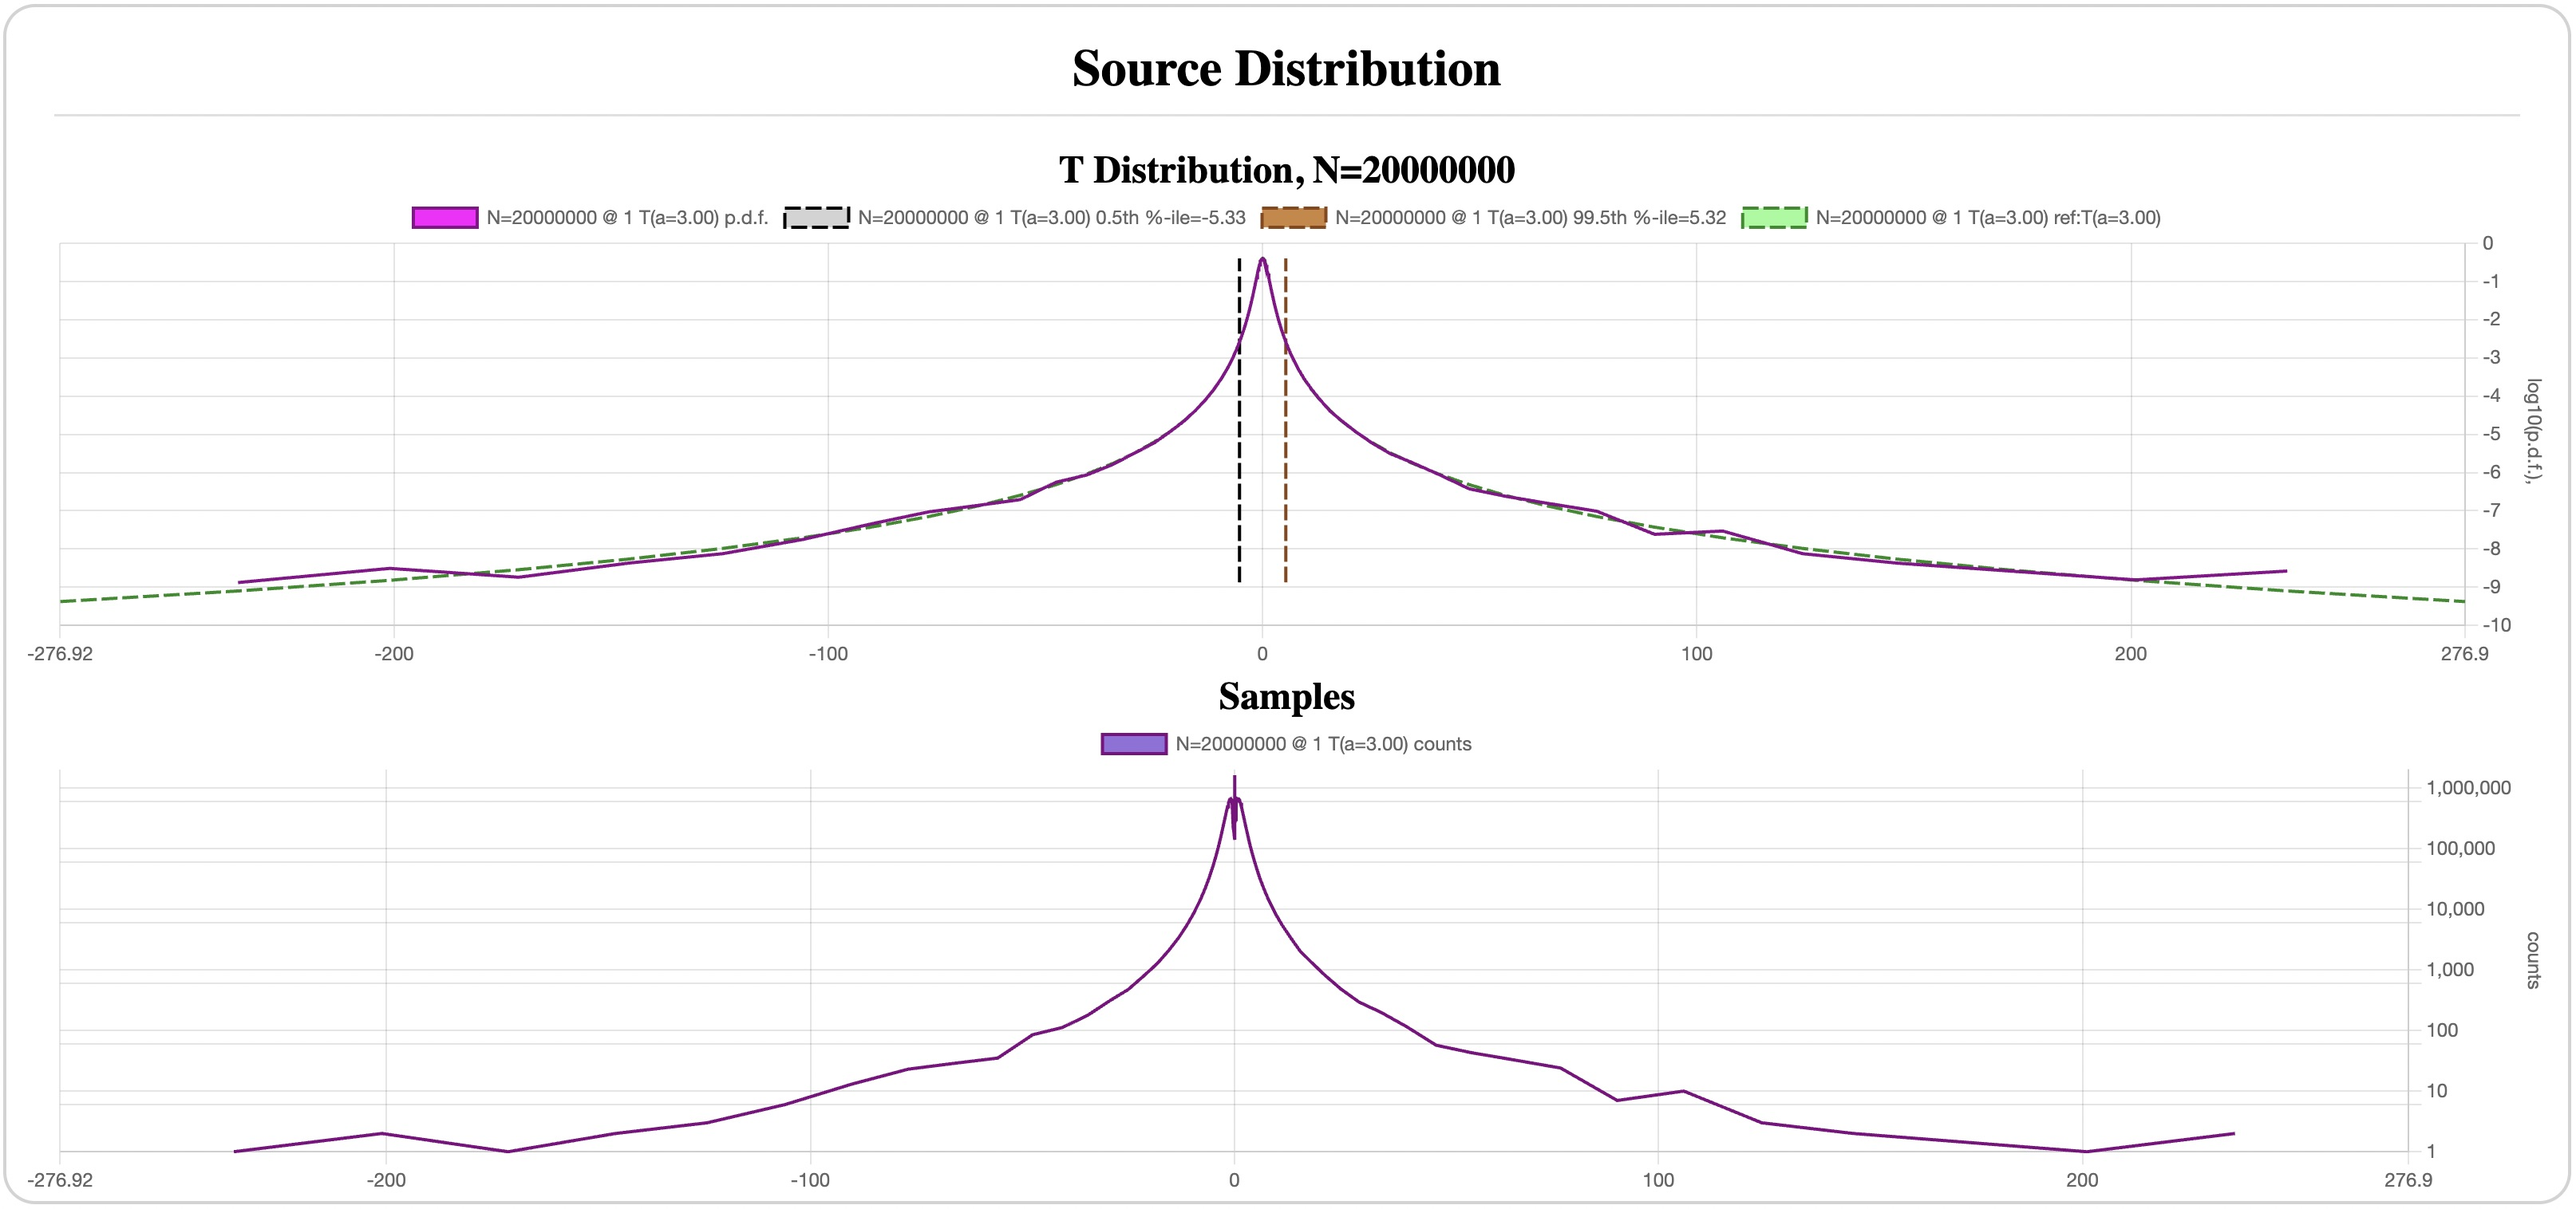
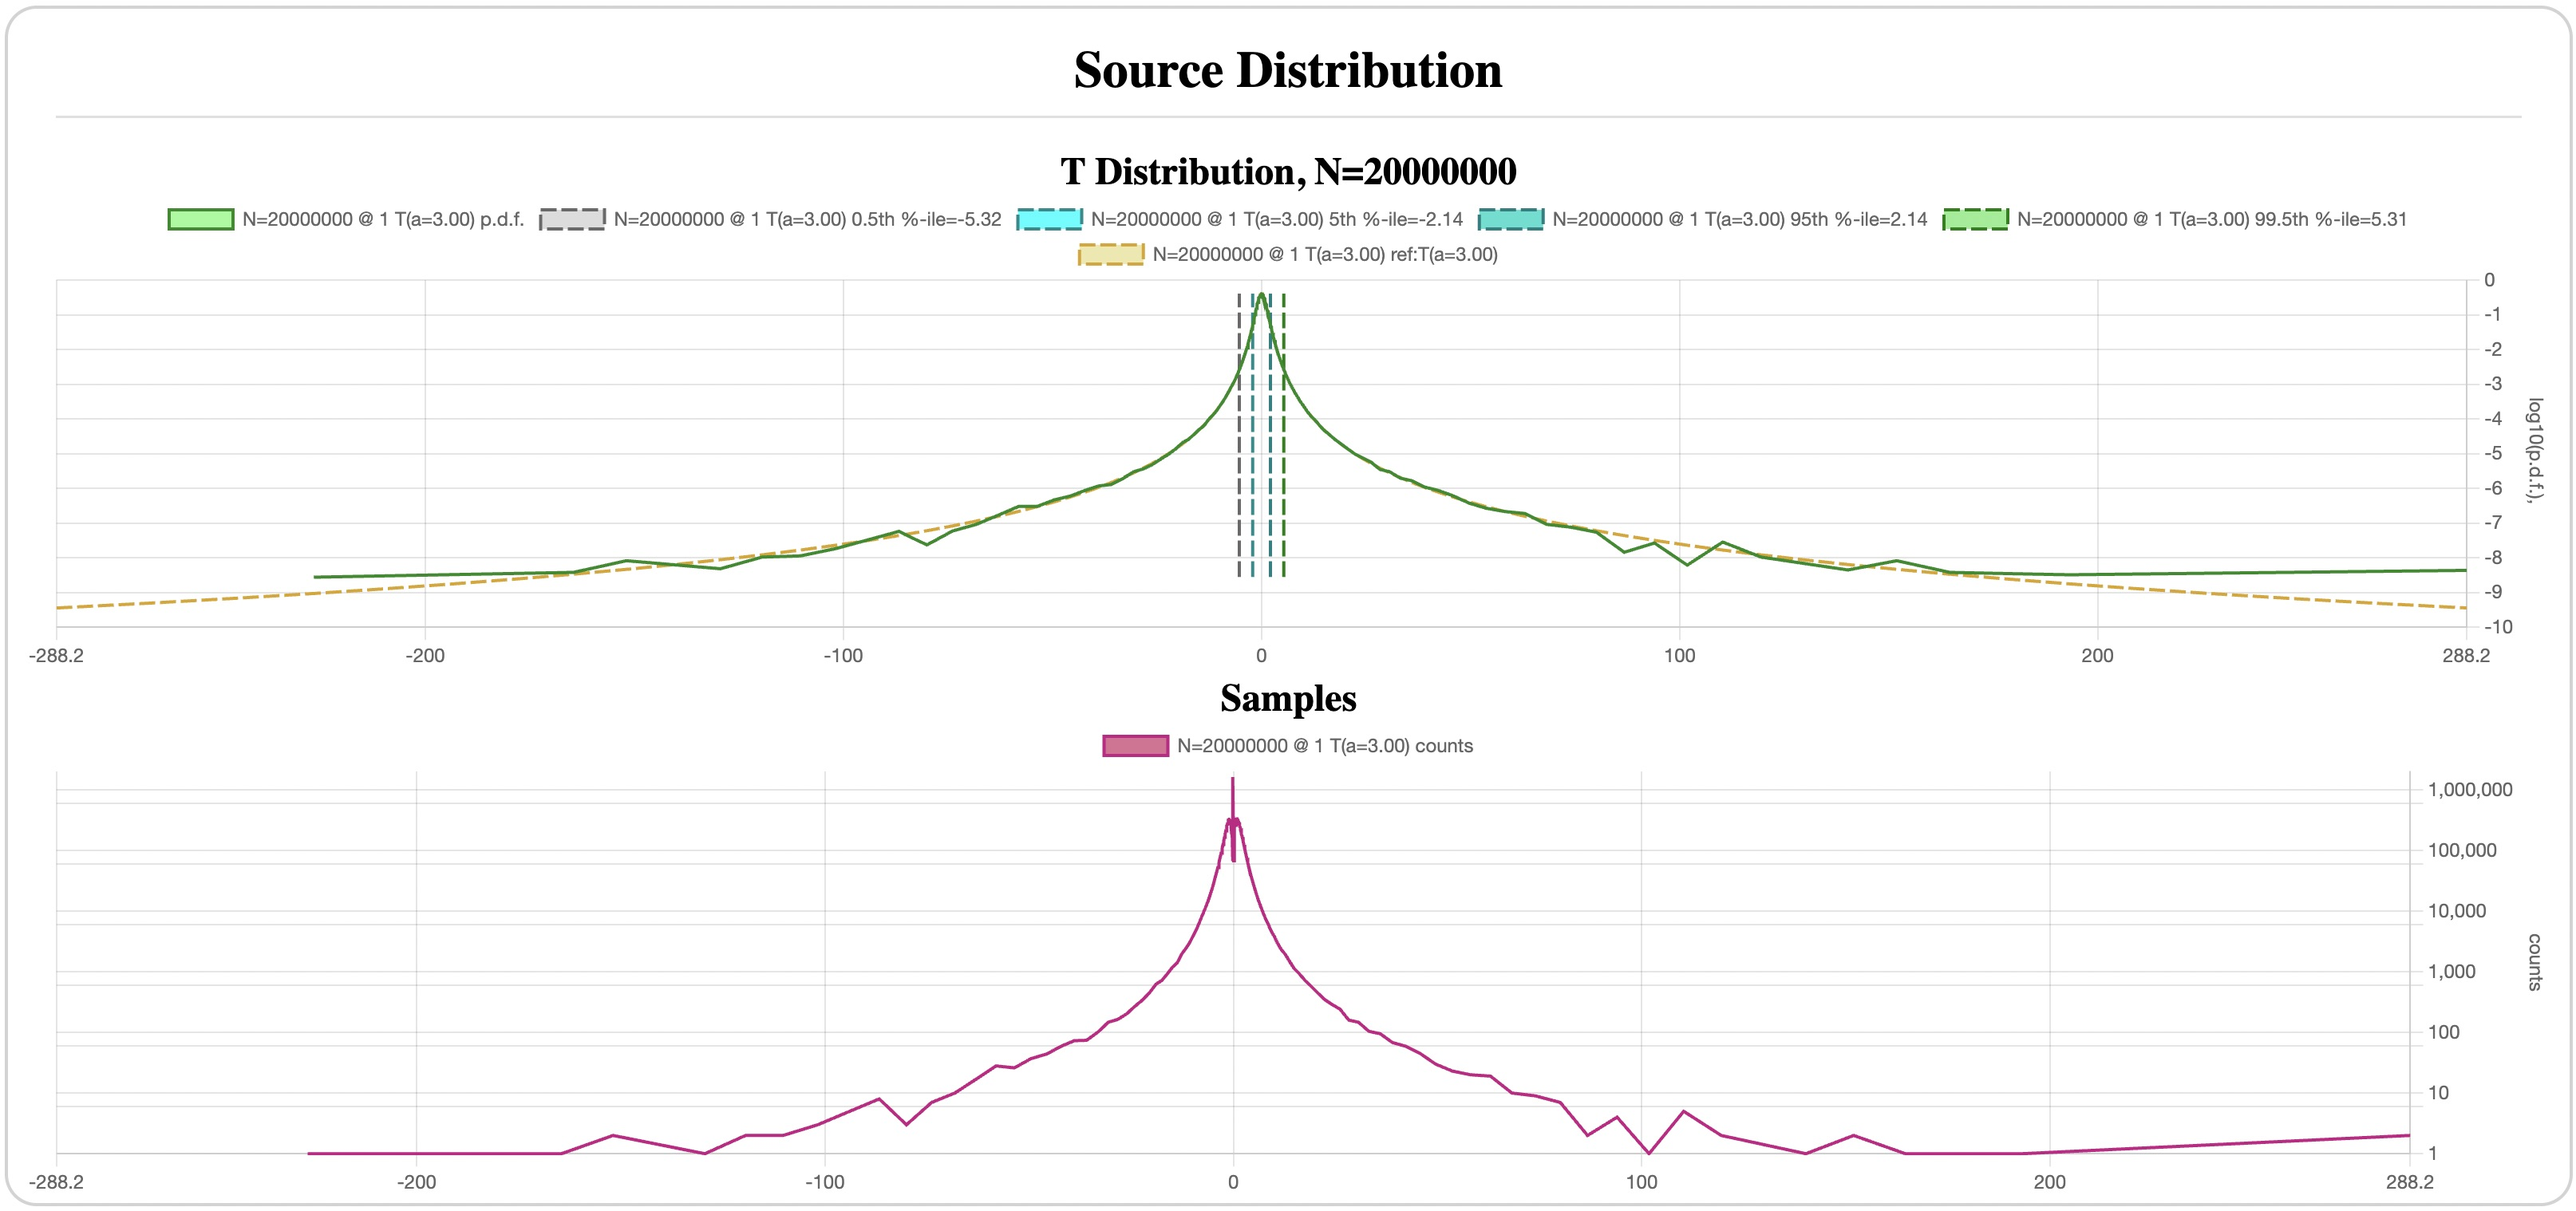
PowerDist README: Alpha distribution

diff --git a/powerdist/assets/assets_test.go b/powerdist/assets/assets_test.go
@@ -26,12 +26,12 @@ func TestConfigs(t *testing.T) {
 	t.Parallel()
 
 	configs := []string{
-		"normal-N-20M-mean-mad-sigma.json",
 		"normal-N-250-mean-mad-sigma.json",
 		"normal-N-5K-mean-mad-sigma.json",
-		"t-N-20M-mean-mad-sigma.json",
+		"normal-N-20M-mean-mad-sigma.json",
 		"t-N-250-mean-mad-sigma.json",
-		"t-N-5K-mean-mad-sigma.json",
+		"t-N-5K-all-dist.json",
+		"t-N-20M-all-dist.json",
 	}
 
 	Convey("Configs parse successfully", t, func() {

diff --git a/powerdist/README.md b/powerdist/README.md
@@ -79,7 +79,7 @@ Along the way, we can estimate the quality of the estimator `s(X)` by comparing
 its mean to `theta` and evaluating the width of `I` as an indicator of its
 precision.
 
-### Mean, MAD, Sigma and Friends
+### Mean, MAD and Sigma
 
 As an illustration, our first set of experiments will estimate (computationally)
 the basic statistics of our two distributions of interests, t-distribution and
@@ -134,7 +134,7 @@ following values of `N`:
 ![Sigma](assets/normal-N-5K-sigma.jpeg)
 
 `N=20,000,000` ([config](assets/normal-N-20M-mean-mad-sigma.json) - warning:
-very long runtime, 2h15m on my Macbook Air M1):
+very long runtime, ~50m on my Macbook Air M1):
 
 ![Source distribution](assets/normal-N-20M-source.jpeg)
 
@@ -169,7 +169,7 @@ A few things to note:
 
 ![Sigma](assets/t-N-250-sigma.jpeg)
 
-`N=5000` ([config](assets/t-N-5K-mean-mad-sigma.json)):
+`N=5000` ([config](assets/t-N-5K-all-dist.json)):
 
 ![Source distribution](assets/t-N-5K-source.jpeg)
 
@@ -179,8 +179,8 @@ A few things to note:
 
 ![Sigma](assets/t-N-5K-sigma.jpeg)
 
-`N=20,000,000` ([config](assets/t-N-20M-mean-mad-sigma.json) - warning:
-very long runtime, 4h on my Macbook Air M1):
+`N=20,000,000` ([config](assets/t-N-20M-all-dist.json) - warning:
+very long runtime, 85m on my Macbook Air M1):
 
 ![Source distribution](assets/t-N-20M-source.jpeg)
 
@@ -199,9 +199,10 @@ for the t-distribution with `a=3`:
   normal distribution), and at 20M there are samples more than 200 MADs
   away.
 - Mean and MAD still converge fairly well, even if their 99% CIs are about twice
-  as wide as for normal, but the same `sigma`'s CI is 3x wider even for 20M
-  samples, all the while having occasional jumps a whole order of magnitude away
-  from its expected value for `N=250` and about 3x its value for `N=5K`.
+  as wide as for the normal distribution, but the same `sigma`'s CI is 3x wider
+  even for 20M samples, all the while having occasional jumps a whole order of
+  magnitude away from its expected value for `N=250` and about 3x its value for
+  `N=5K`.
 
 In other words, the standard deviation converges a lot slower and is a lot
 noisier than MAD, and hence, I've decided to use MAD rather than `sigma`.
@@ -240,13 +241,7 @@ to use it as a model.
 
 ## The Tale of Fat Tails
 
-Earlier, we [have established](../distribution/) that log-profits can be
-reasonably accurately modeled by a random variable `X` with a Student's
-[t-distribution] with (approximately) `a=3` degrees of freedom, it is time to
-look closer at this distribution and understand some of its fundamental
-properties.
-
- As a reminder, the p.d.f. of the t-distribution with `a` degrees of freedom is:
+Recall that the p.d.f. of the [t-distribution] with `a` degrees of freedom is:
 
 ```
 f_a(x) = C * (1 + x^2/a)^(-(a+1)/2)
@@ -267,6 +262,112 @@ power law with the exponent `a`. Therefore, a Student's t-distribution is a
 `a<=3` it is also a [fat-tailed distribution], since its skewness and kurtosis
 are infinite.
 
+Therefore, to estimate the parameter `a` of the Student's t-distribution, it is
+sufficient to look at the tails far enough away from the mean.  In fact, as we
+will see in a moment, this approach yields better accuracy than looking at the
+near-mean samples.
+
+### Finding Alpha
+
+In the section on [Distribution of Log-Profits] we estimated `a` by visually
+fitting a reference analytical distribution and comparing it to the sample
+distribution.  But if we want to estimate the confidence interval of `a` we need
+to come up with an automated method for estimating `a`. Perhaps, the simplest
+way is to formalize what we informally did before: try a few reference
+distributions with different `a` and pick the one which fits the best.  Or, more
+accurately, the one that "differs the least". In other words, we need some sort
+of a distance measure for distributions.
+
+In most statistics textbooks, such a measure between distributions with p.d.f.'s
+`f` and `g` is often defined as the maximum pointwise distance:
+
+```
+D0(f, g) = max { abs(f(x) - g(x)) } for all x in [-inf..inf]
+```
+
+Since our sample p.d.f. is generated as a histogram, it has a fixed number of
+points (the values of `x` corresponding to the buckets), and our measure
+becomes:
+
+```
+D0(f, g) = max { abs(f(x) - g(x)) } for all x in histogram's buckets
+```
+
+However, such measure heavily favors the points near the mean, since this is
+where the value of p.d.f. is the largest, and effectively ignores the tails as
+they become very close to zero. As an illustration, let's look at the
+t-distributions with `a=3` and `a=10` plotted with linear scale Y axis:
+
+![a=3 vs a=10 linear](assets/t-a3-vs-a10-linear.jpeg)
+
+We can clearly see that any meaningful difference is within about 3 MADs away
+from the mean, and the remaining tails are too close to zero to contribute
+anything to the distance measure. This creates a situation when the sample noise
+in the less important region near the mean may be higher than the useful signal
+in the far tails.
+
+However, if we plot the same distributions on a log-scale `Y` axis, the
+difference in the tails becomes a lot more significant than near the mean:
+
+![a=3 vs a=10 linear](assets/t-a3-vs-a10-log.jpeg)
+
+In fact, this is precisely why we've been plotting all the distributions on a
+log-scale `Y`, to see the details in the tails.
+
+This gives the idea of a modified measure:
+
+
+```
+D(f, g) = max { abs(log(f(x)) - log(g(x))) } for all x in buckets
+```
+
+This measure, judging by the plots above, heavily favors the far tails over the
+near-mean values.
+
+Thus, an algorithm for finding the best `a` reduces to minimizing the function
+
+```
+F(a) = D(f_sample, t[a])
+```
+
+where `t[a]` is the p.d.f. of a t-distribution with the parameter `a`.
+
+To further reduce the sample noise, this measure can ignore the histogram
+buckets with counts less than some threshold `k`. In fact, looking at the
+few sample graphs above we can already see that sample p.d.f. points generated
+by very few samples (e.g. less than 10) are very noisy, and tend to create an
+impression of a "fatter tail" than it really is.
+
+Those of you who actually executed the above configs may have noticed that the
+configs for `N=5K` and `N=20M` also include a distribution for "Alpha" - this is
+precisely the parameter `a` estimated using the method above.
+
+`N=5K`, `k=10`:
+
+![Alpha distribution for N=5K](assets/t-5K-alpha.jpeg)
+
+The confidence interval here is too wide to make any meaningful conclusions, and
+experimentally `k=10` is about as good as we can get for `N=5K`.  Reducing `k`
+exposes us to too much sample noise in the tails, and increasing it cuts the
+available tails too short. Clearly, estimating `a` requires more data, and it's
+the reason I didn't even try it for `N=250`.
+
+`N=20M`, `k=10`:
+
+![Alpha distribution for N=20M, k=10](assets/t-20M-alpha-i10.jpeg)
+
+`N=20M`, `k=100`:
+
+![Alpha distribution for N=20M, k=100](assets/t-20M-alpha-i100.jpeg)
+
+Here the CIs become a lot more reasonable.  The buckets with 10+ counts appear
+around 67 MADs away from the mean, and 100 counts - near 33 MADs, which is still
+a respectable distance far into the tails, all the while reducing the sample
+noise with higher counts. The result, of course, is a somewhat tighter
+confidence interval for `k=100`: around +-1% for 90% confidence, and +-1.7% for
+99%, as compared to +-2% and +-4% respectively for `k=10`.
+
+[Distribution of Log-Profits]: ../distribution
 [t-distribution]: https://en.wikipedia.org/wiki/Student%27s_t-distribution
 [power law]: https://en.wikipedia.org/wiki/Power_law
 [heavy-tailed distribution]: https://en.wikipedia.org/wiki/Heavy-tailed_distribution
